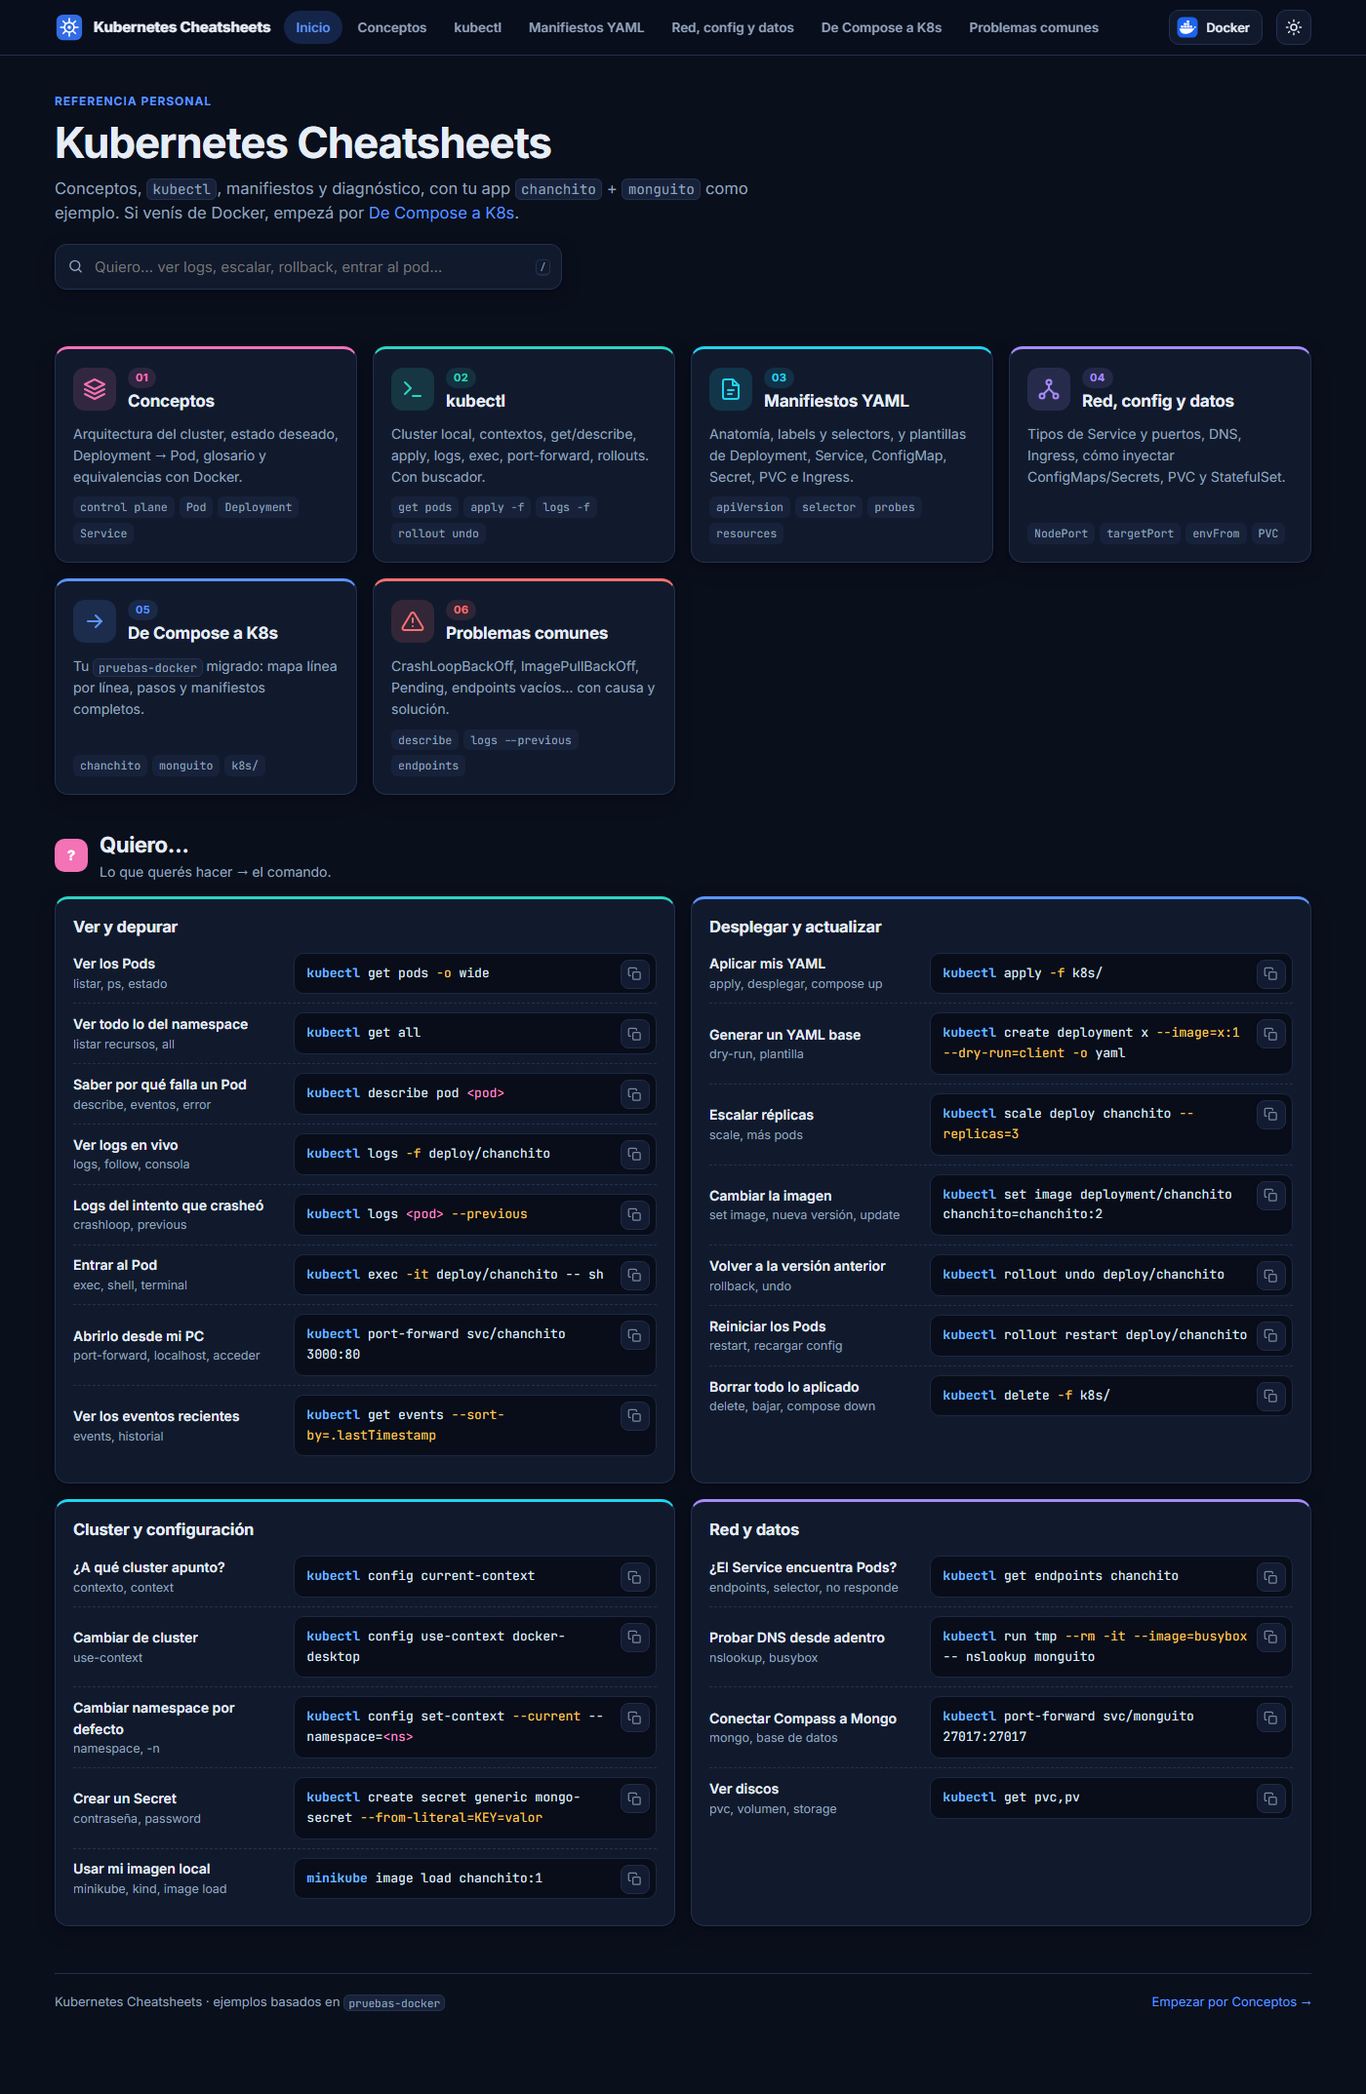
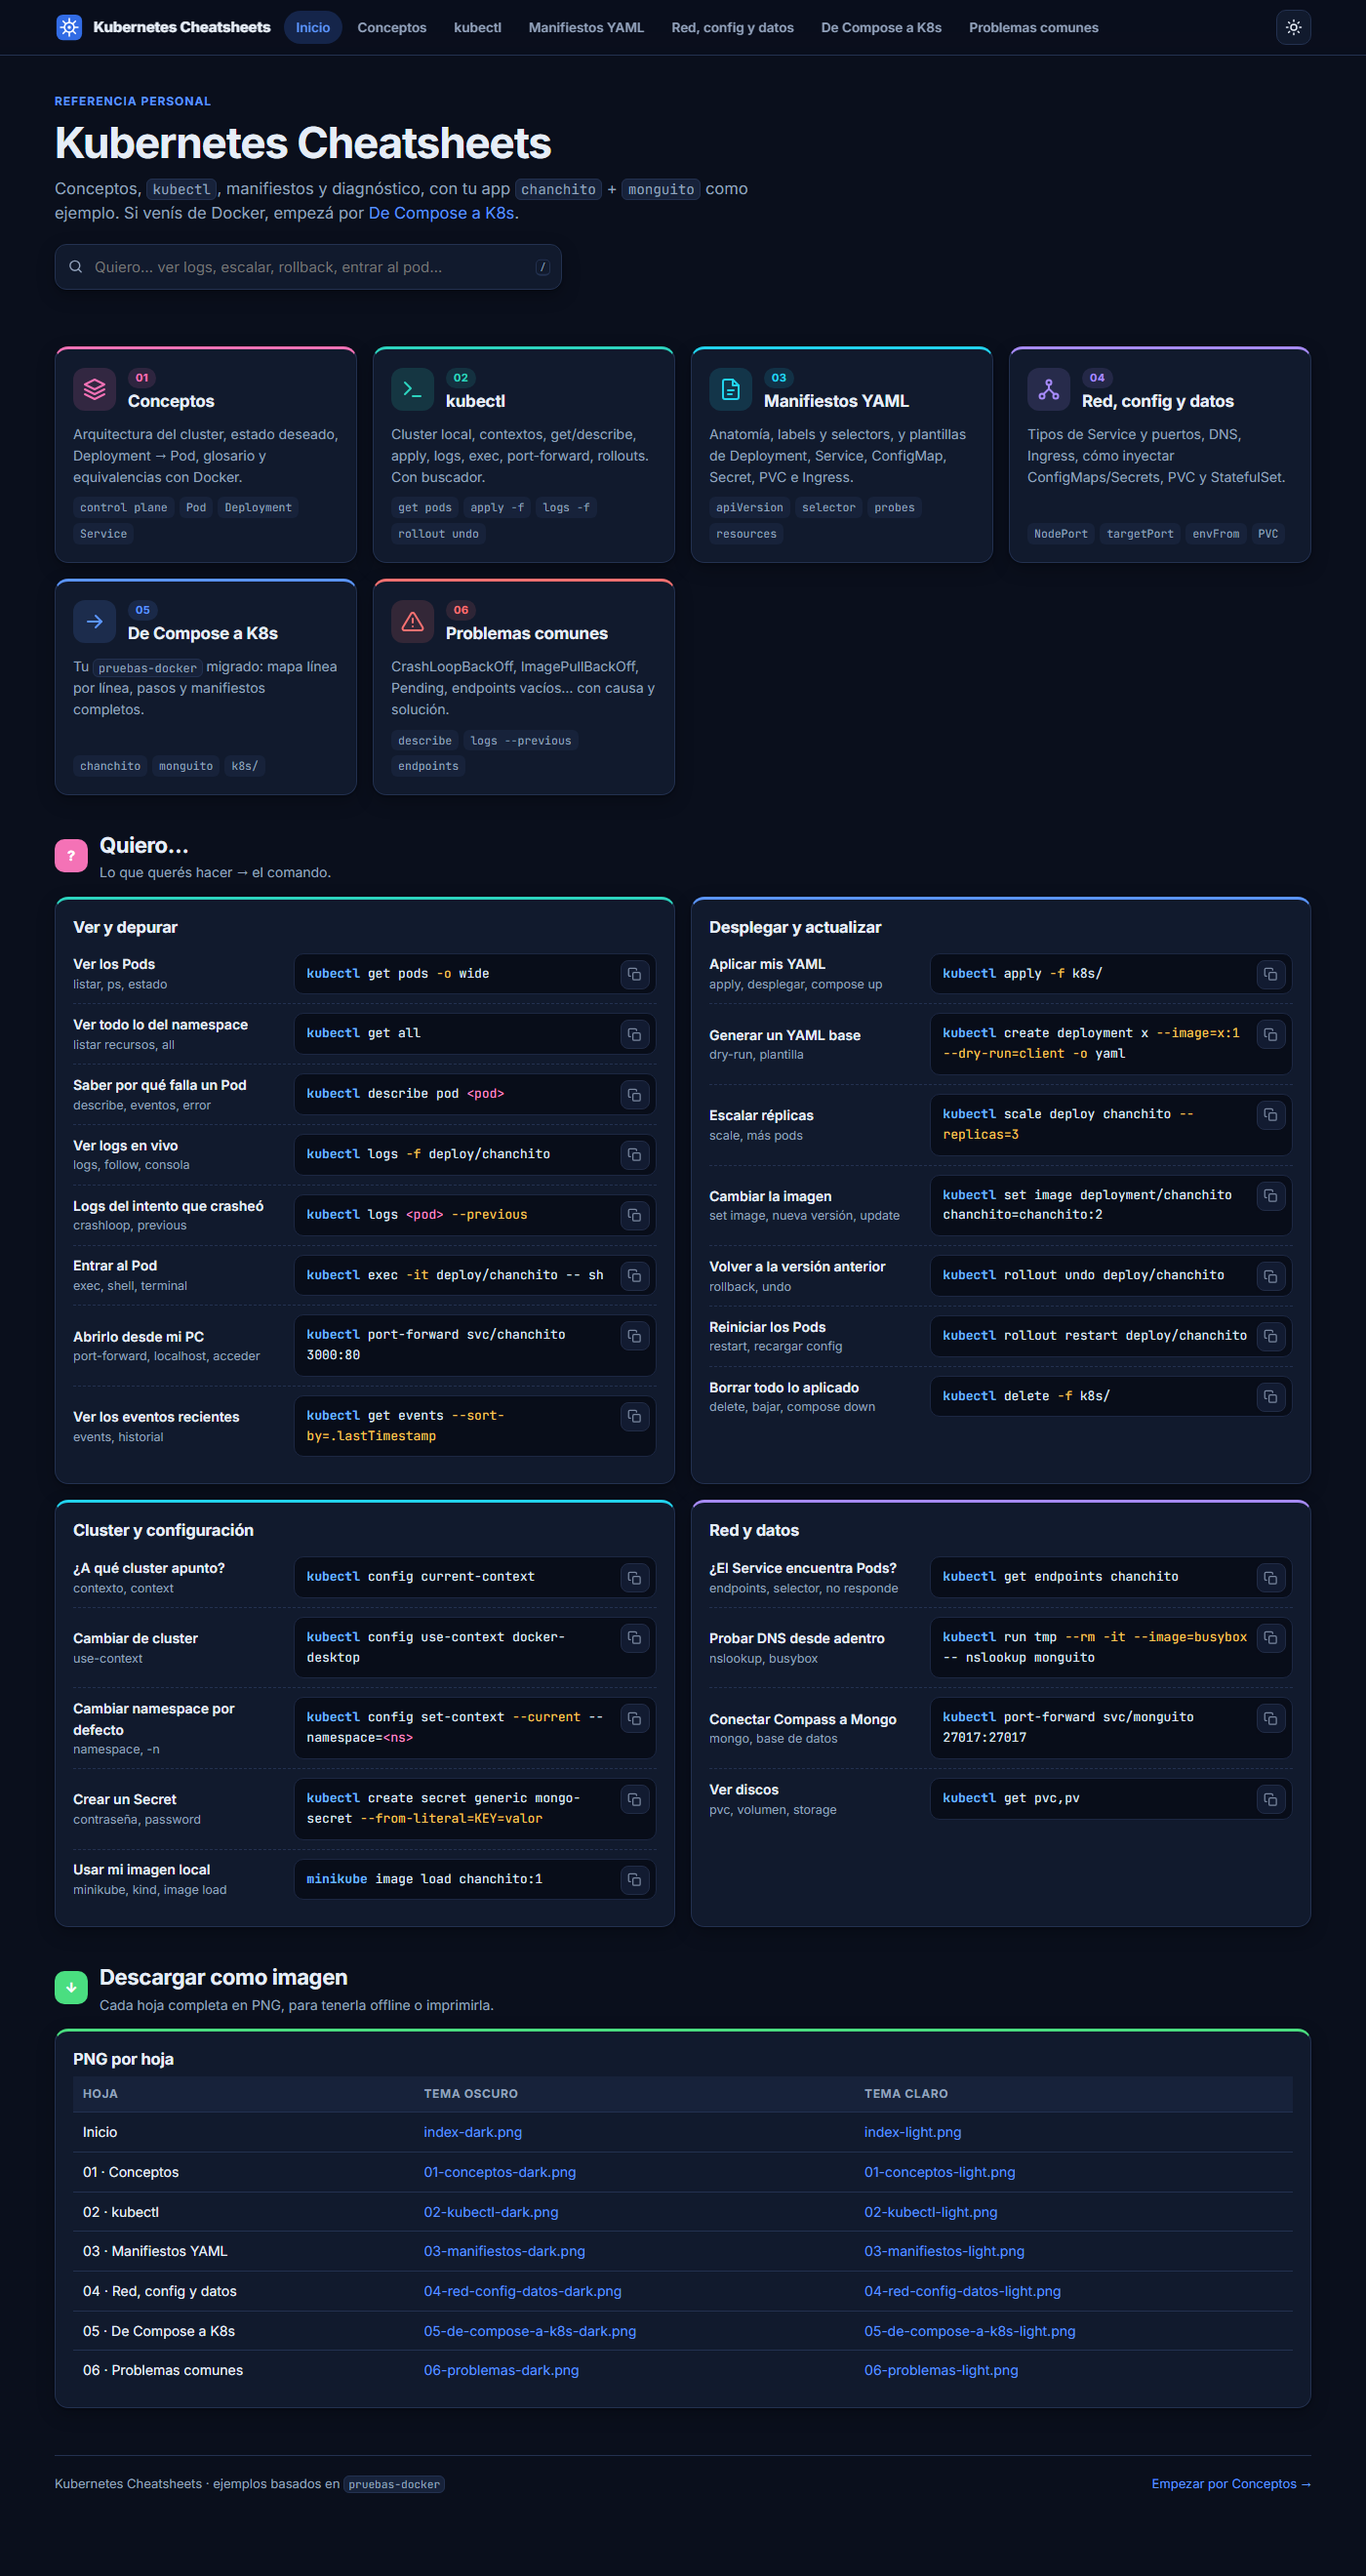
Desactivar ligaduras en los chips de la portada
La fuente monoespaciada convertía secuencias como --build, --previous
o ~> en flechas. Se regeneran los PNG de la portada.

diff --git a/assets/style.css b/assets/style.css
@@ -114,7 +114,7 @@ a { color: var(--accent); text-decoration: none; }
 a:hover { text-decoration: underline; }
 
 /* sin ligaduras: que "--name" no se convierta en "—name" */
-code, pre, kbd, svg .mono, .d-code, .d-lbl {
+code, pre, kbd, svg .mono, .d-code, .d-lbl, .chips span {
   font-family: var(--mono);
   font-variant-ligatures: none;
   font-feature-settings: "liga" 0, "calt" 0;
